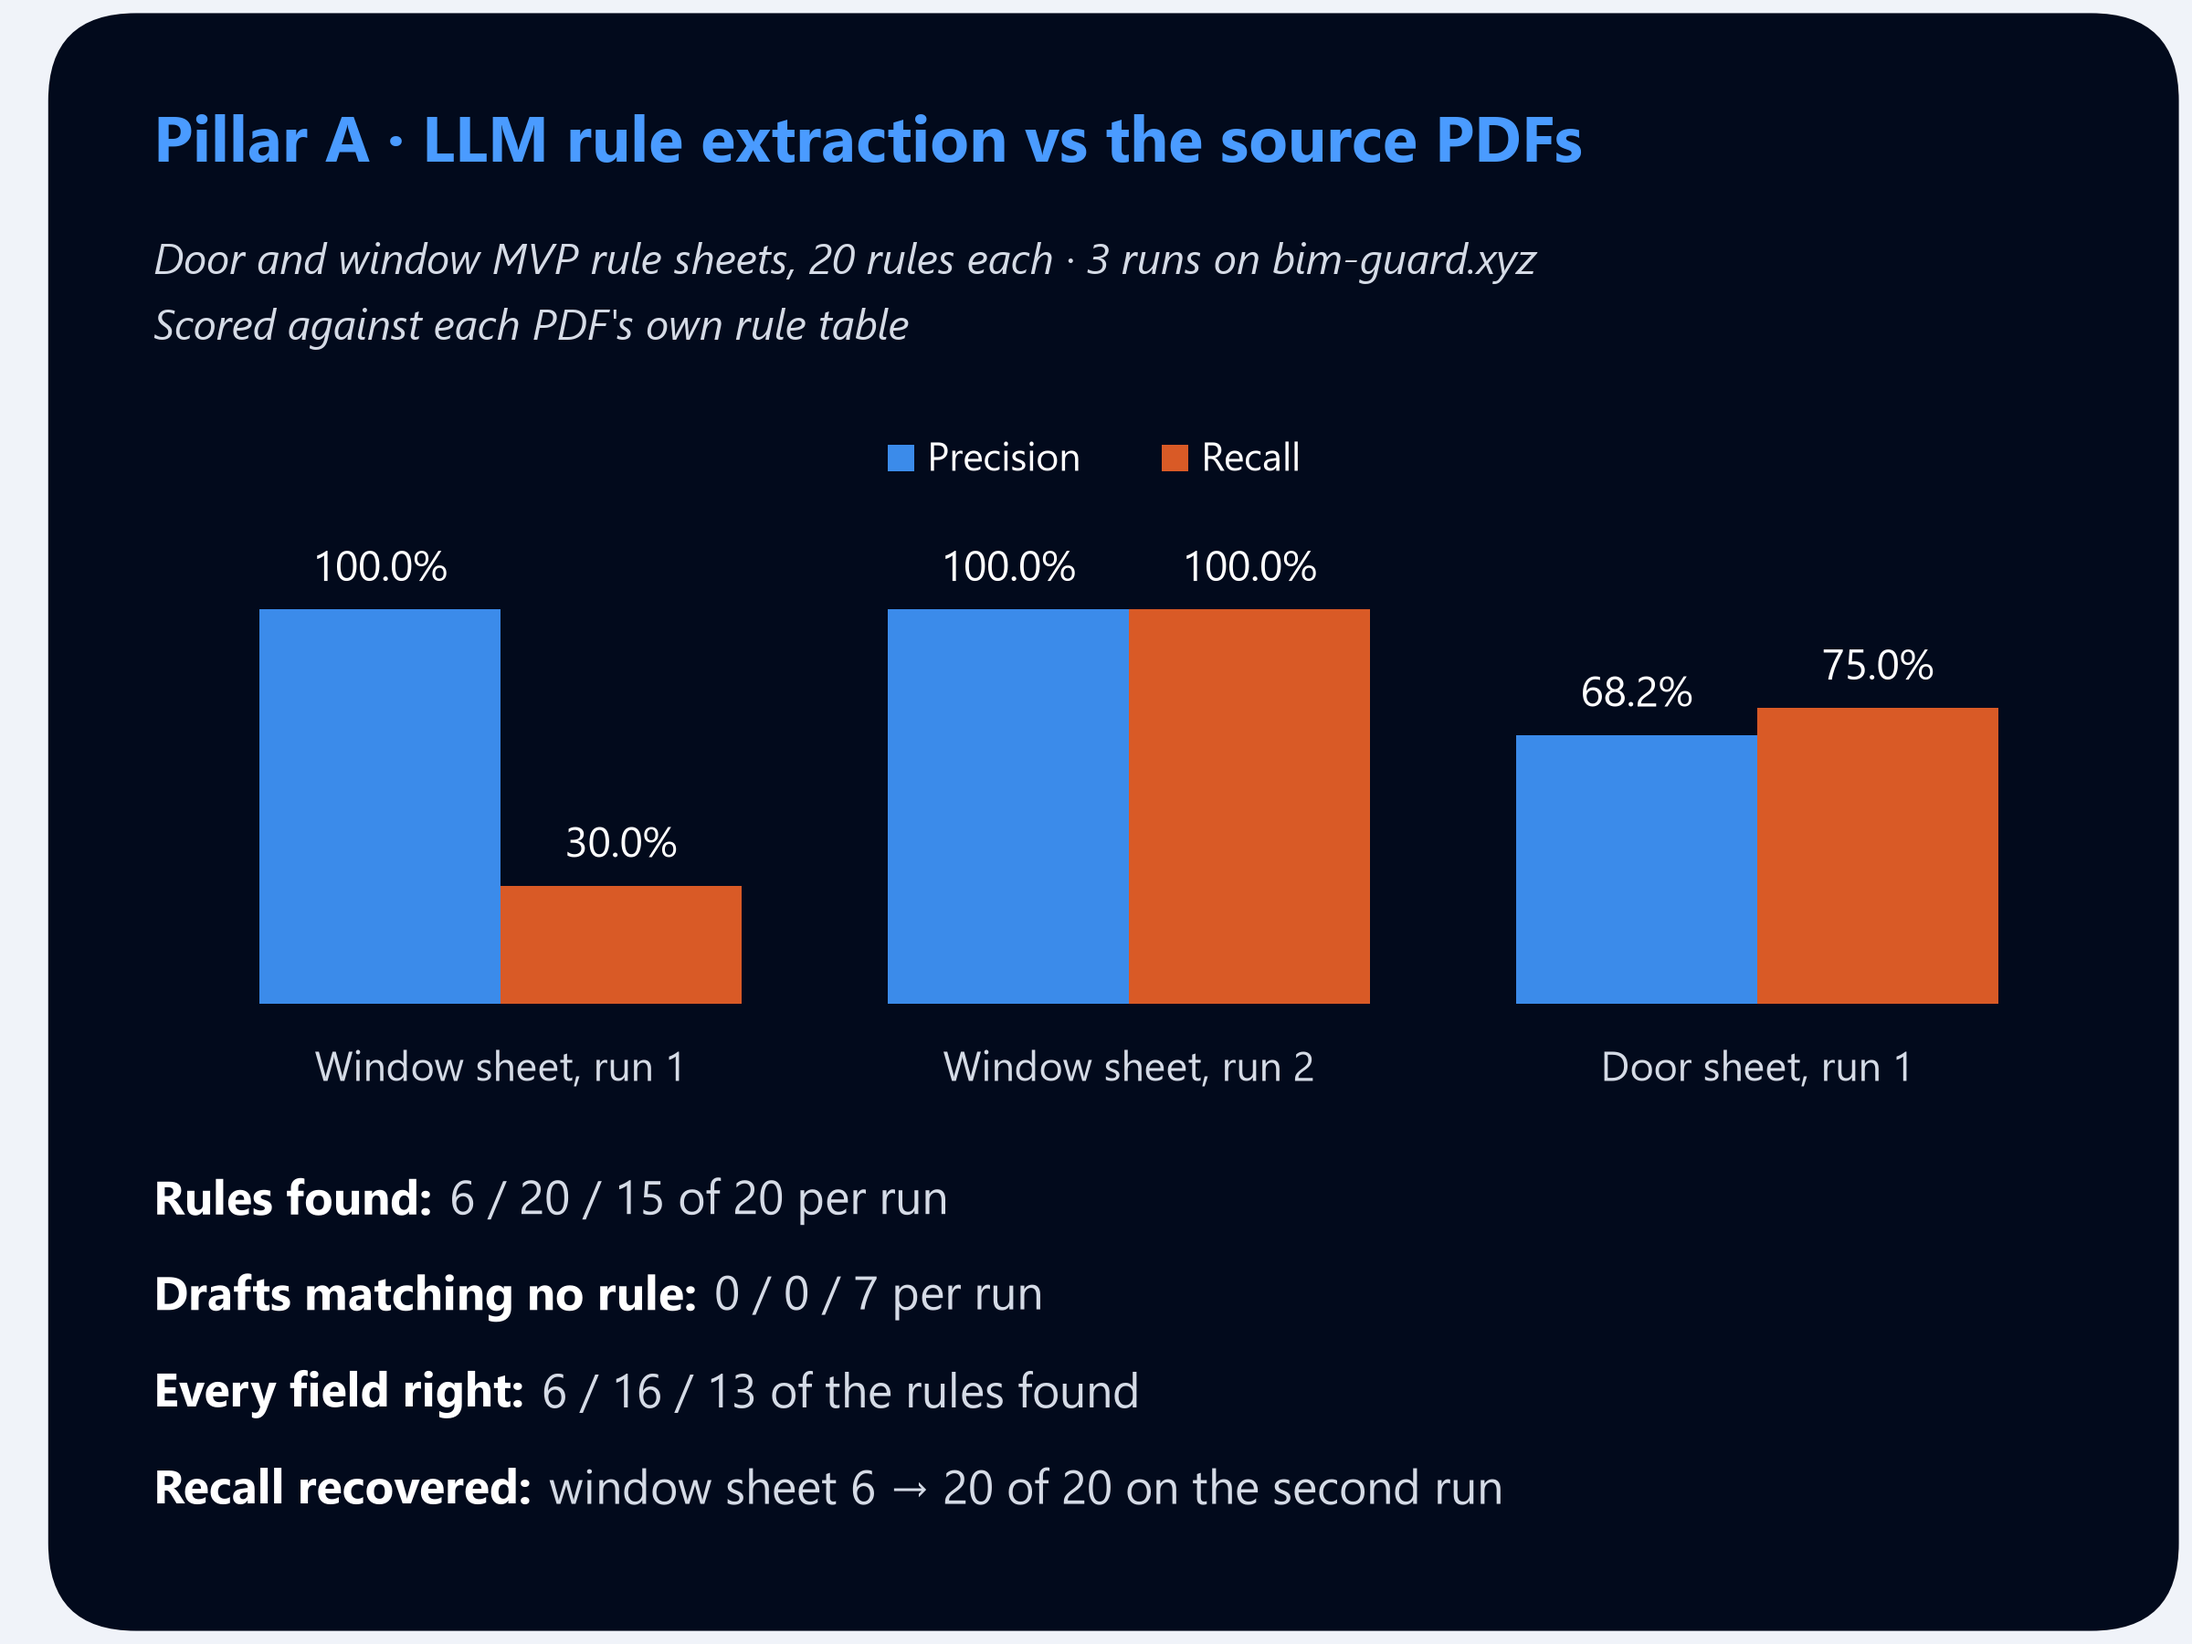
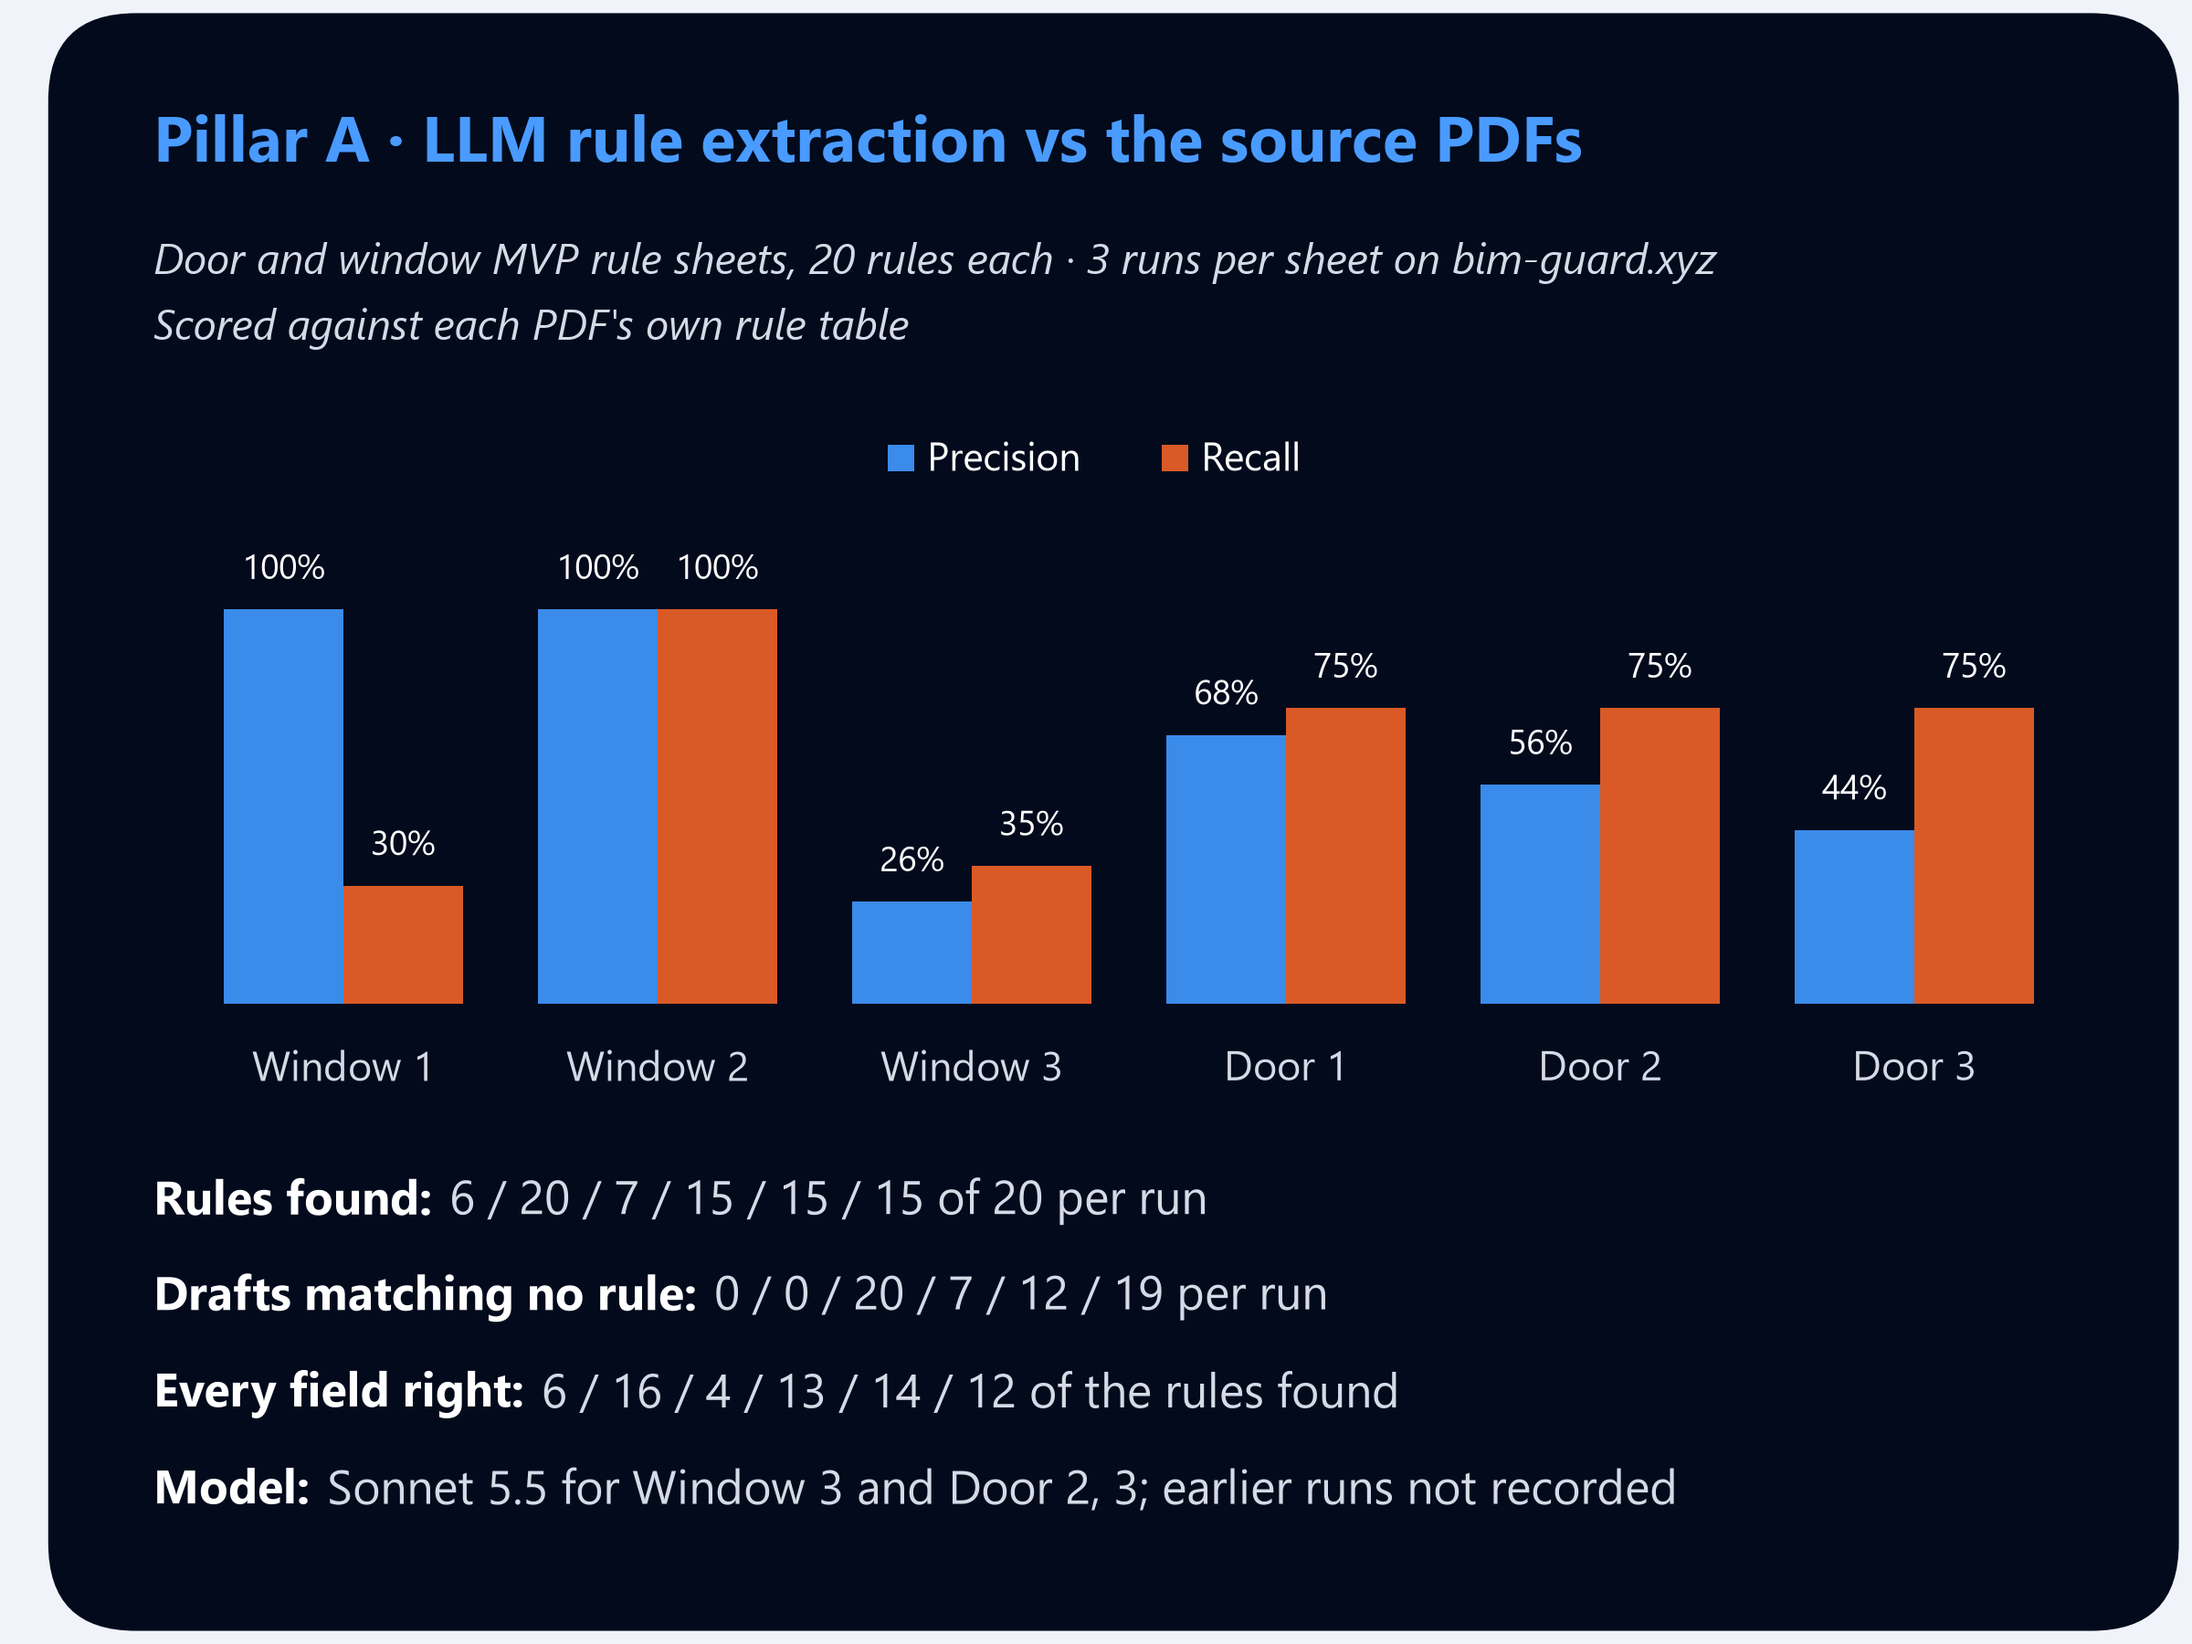
Pillar A runs card: three live runs per MVP rule sheet; count repeated drafts as redundant

diff --git a/eval/plot_extraction_runs_card.py b/eval/plot_extraction_runs_card.py
@@ -5,10 +5,11 @@ cannot show a rate that the counts do not support:
 
     {"subtitle": "Door and window rule sheets, 40 rules, 3 runs through the live app",
      "gold_rules": 40,
-     "runs": [{"label": "Run 1", "drafts": 0, "correct": 0}, ...],
+     "runs": [{"label": "Run 1", "drafts": 0, "duplicates": 0, "correct": 0}, ...],
      "notes": [["Bold lead-in:", "rest of the line"], ...]}
 
-precision = correct / drafts, recall = correct / gold_rules.
+precision = correct / (drafts - duplicates), recall = correct / gold_rules. duplicates
+(drafts restating a rule already counted) are optional and count neither way.
 
 Usage: uv run python eval/plot_extraction_runs_card.py runs.json -o docs/publication/figures/fig_pillar_a_runs.png
 """
@@ -57,19 +58,22 @@ def draw(d: dict, out: Path) -> None:
         ax.add_patch(Rectangle((W / 2 + dx, 203), 12, 12, facecolor=color, edgecolor="none"))
         ax.text(W / 2 + dx + 18, 210, name, fontsize=13, color=WHITE, va="center")
 
-    base, full, bar = 458, 180, 110
+    base, full = 458, 180
+    bar = min(110, 0.38 * (W - 140) / len(runs))
+    wide = bar > 80
     step = (W - 140) / len(runs)
     for i, run in enumerate(runs):
         centre = 85 + step * (i + 0.5)
-        precision = run["correct"] / run["drafts"] if run["drafts"] else 0.0
+        distinct = run["drafts"] - run.get("duplicates", 0)
+        precision = run["correct"] / distinct if distinct else 0.0
         for left, value, color in ((centre - bar, precision, BLUE), (centre, run["correct"] / gold, ORANGE)):
             ax.add_patch(Rectangle((left, base - full * value), bar, full * value, facecolor=color, edgecolor="none"))
-            ax.text(left + bar / 2, base - full * value - 18, f"{value:.1%}", fontsize=14, color=WHITE,
+            ax.text(left + bar / 2, base - full * value - 18, f"{value:.1%}" if wide else f"{value:.0%}", fontsize=14 if wide else 11.5, color=WHITE,
                     ha="center", va="center")
         ax.text(centre, base + 30, run["label"], fontsize=13.5, color=PALE, ha="center", va="center")
 
     found = " / ".join(str(r["correct"]) for r in runs)
-    wrong = " / ".join(str(r["drafts"] - r["correct"]) for r in runs)
+    wrong = " / ".join(str(r["drafts"] - r.get("duplicates", 0) - r["correct"]) for r in runs)
     notes = [["Rules found:", f"{found} of {gold} per run"],
              ["Drafts matching no rule:", f"{wrong} per run"], *d.get("notes", [])]
     for i, (bold, rest) in enumerate(notes):
@@ -87,8 +91,8 @@ def main() -> int:
     a = ap.parse_args()
     d = json.loads(a.runs.read_text(encoding="utf-8"))
     for run in d["runs"]:
-        if not 0 <= run["correct"] <= min(run["drafts"], d["gold_rules"]):
-            sys.exit(f"{run['label']}: correct must be between 0 and min(drafts, gold_rules)")
+        if not 0 <= run["correct"] <= min(run["drafts"] - run.get("duplicates", 0), d["gold_rules"]):
+            sys.exit(f"{run['label']}: correct must be between 0 and min(drafts - duplicates, gold_rules)")
     draw(d, a.out)
     print(a.out)
     return 0
